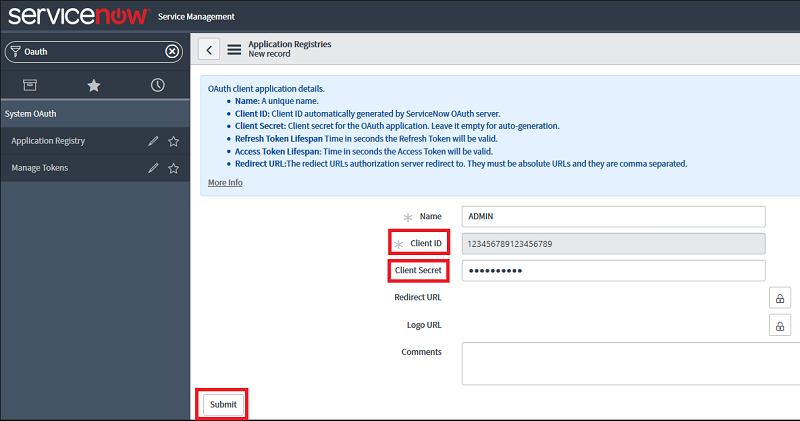
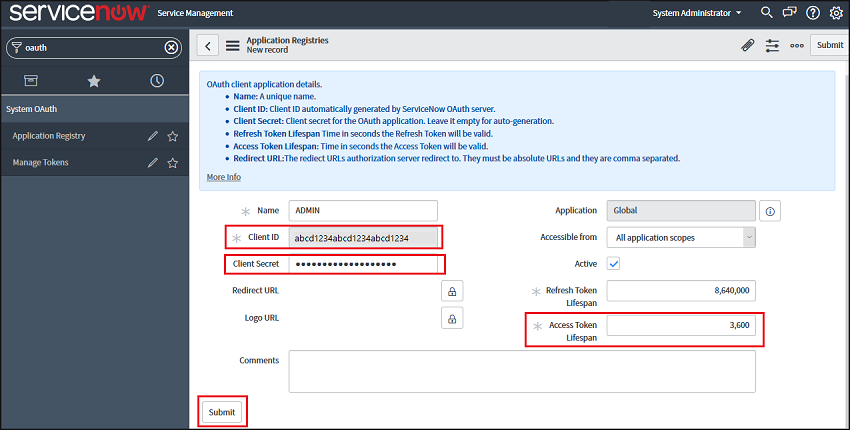
Snow after Dor

Changed region(s): [[0.0, 0.0, 1.0, 1.0], [0.2812, 0.8337, 0.3438, 0.8646]]

diff --git a/CloudAppSecurityDocs/connect-servicenow-to-microsoft-cloud-app-security.md b/CloudAppSecurityDocs/connect-servicenow-to-microsoft-cloud-app-security.md
@@ -52,7 +52,9 @@ This section provides instructions for connecting Cloud App Security to your exi
     
     - The **Client ID** will be generated automatically. Copy this ID, you will need to paste it into Cloud App Security to complete connection.
     
-    - In the **Client Secret** field, enter a string. Copy and save it for later.
+    - In the **Client Secret** field, enter a string. If left empty, a random Secret will be generated automatically. Copy and save it for later. 
+    
+    - Increase the **Access Token Lifespan** to at least 3,600.
     
     - Click **Submit**.
 
